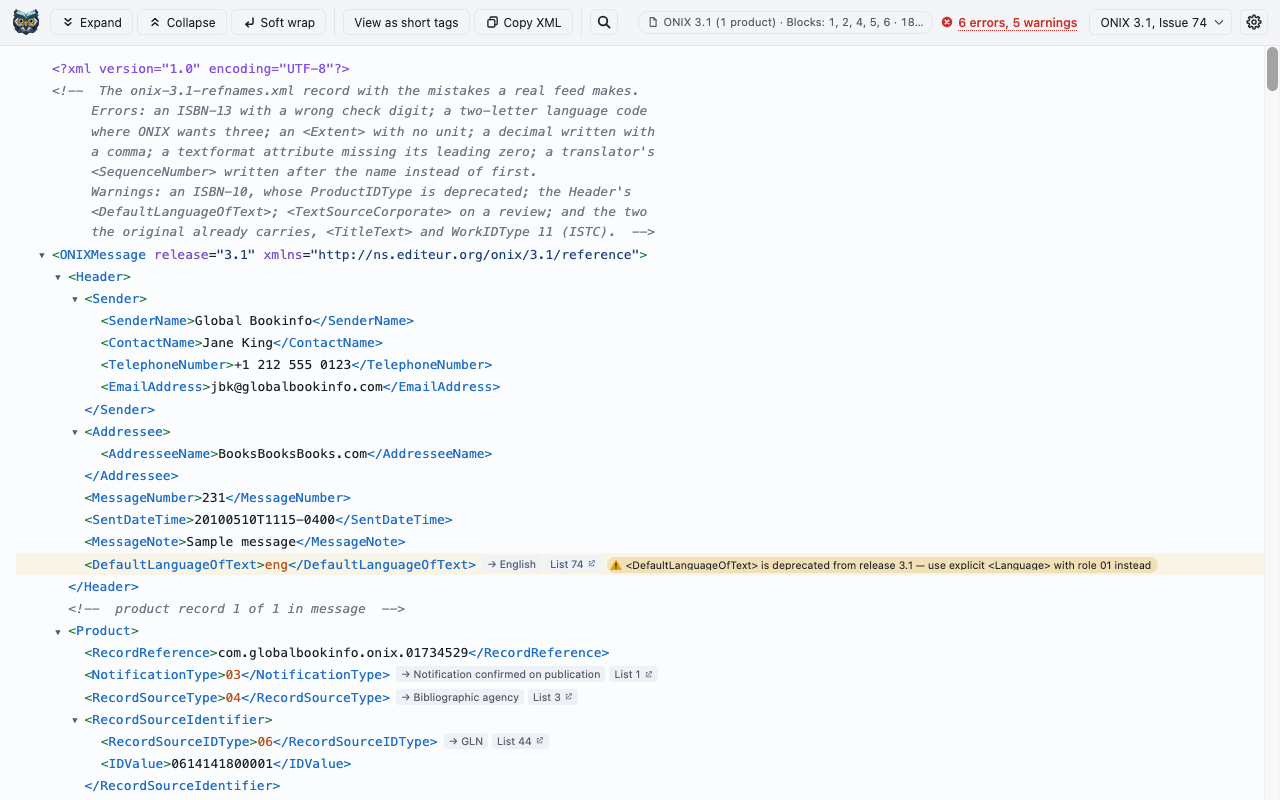
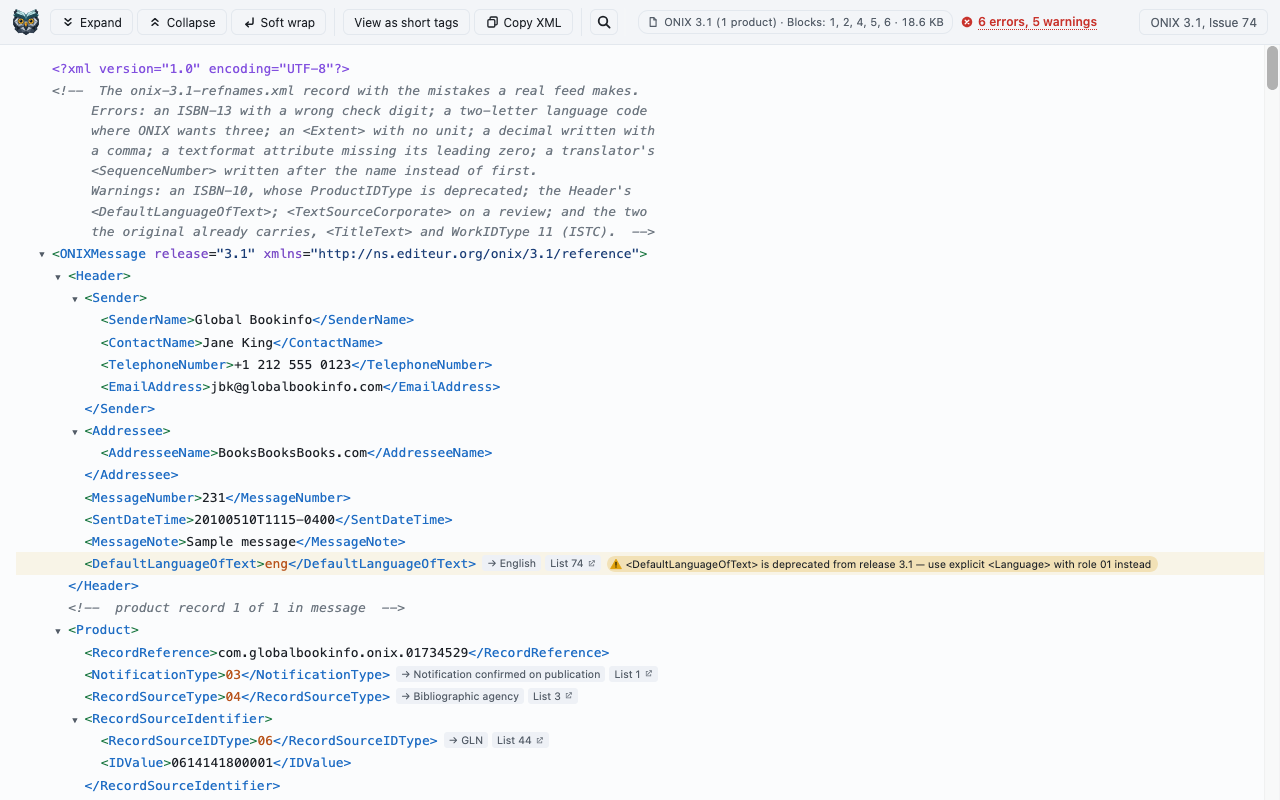
Hold back the custom rules and the release selector

diff --git a/tests/cases/38-held-back-features.test.js b/tests/cases/38-held-back-features.test.js
@@ -1,0 +1,54 @@
+// What ships while the custom-rules editor and the release selector are held
+// back: no cog, no rules read from the page, the release pill a fact rather
+// than a choice. The features' own tests (32, 33, 37) turn them on through
+// window.OnixViewerFeatures; these run with the shipped defaults.
+const fs = require("fs");
+const path = require("path");
+const { test, describe, assert, render, renderSource, validationLabel, RES, FIXTURES } = require("../harness");
+
+const HOUSE_RULES = fs.readFileSync(path.join(FIXTURES, "house-rules.sch"), "utf8");
+const VALID = fs.readFileSync(path.join(FIXTURES, "onix-3.1-valid.xml"), "utf8");
+
+describe("Held-back features", () => {
+  test("the shipped defaults hold both features off", () => {
+    const w = render("onix-3.1-valid.xml");
+    assert(w.OnixViewerFeatures.customRules === false && w.OnixViewerFeatures.releaseSelector === false,
+      `got ${JSON.stringify(w.OnixViewerFeatures)}`);
+  });
+
+  test("the toolbar has no cog, and a rules block on the page is ignored", () => {
+    const w = renderSource(VALID, "valid.xml", (win) => {
+      const holder = win.document.createElement("script");
+      holder.setAttribute("type", "application/xml");
+      holder.id = "__oxv-rules__";
+      holder.textContent = HOUSE_RULES;
+      win.document.body.appendChild(holder);
+    });
+    assert(!w.document.querySelector('#oxv-toolbar [data-action="rules"]'), "no cog in the toolbar");
+    assert(validationLabel(w).textContent === "Valid", `the house rules did not run; got "${validationLabel(w).textContent}"`);
+    assert(!w.document.getElementById("oxv-rules"), "and no editor was built");
+  });
+
+  test("the release pill states the document's release and offers no choice", () => {
+    for (const [fixture, release] of [["onix-3.0-reference.xml", "3.0"], ["onix-3.1-valid.xml", "3.1"], ["onix-2.1-doctype.xml", "2.1"]]) {
+      const w = render(fixture);
+      const select = w.document.getElementById("oxv-release");
+      assert(select.disabled, `${fixture}: not a control`);
+      assert(select.options.length === 1 && select.value === release, `${fixture}: one option, ${release}; got ${select.value}`);
+      assert(select.parentElement.classList.contains("px-static"), `${fixture}: styled as the plain pill`);
+      assert(select.options[0].textContent.startsWith(`ONIX ${release}`), `${fixture}: reads ONIX ${release}`);
+    }
+  });
+
+  test("the plain pill draws no chevron", () => {
+    const css = fs.readFileSync(path.join(RES, "viewer.css"), "utf8");
+    assert(/#oxv-release-group\.px-static::after\s*\{\s*display:\s*none;/.test(css), "the chevron rule is off for px-static");
+  });
+
+  test("turned on, the cog and the choice come back", () => {
+    const w = render("onix-3.1-valid.xml", (win) => { win.OnixViewerFeatures = { customRules: true, releaseSelector: true }; });
+    assert(w.document.querySelector('#oxv-toolbar [data-action="rules"]'), "the cog");
+    const select = w.document.getElementById("oxv-release");
+    assert(!select.disabled && select.options.length === 2, "the two bundled releases to choose from");
+  });
+});

diff --git a/Resources/viewer.js b/Resources/viewer.js
@@ -57,6 +57,19 @@
   // Findings inside a deferred Product, pinned when it renders.
   const pendingFindings = new Map();
 
+  // ---- held-back features ---------------------------------------------------
+
+  // Two features are built and tested but off in the shipped build until
+  // they are ready: the custom-rules editor behind the toolbar's cog, and the
+  // manual release selector. With both off the release to validate against
+  // is chosen from the document alone, the cog is not in the toolbar, and
+  // the manifest asks for no permission at all. Their tests turn them on
+  // through window.OnixViewerFeatures before the viewer loads; content.js
+  // carries its own copy of the customRules switch, since it runs in the
+  // other world.
+  const FEATURES = Object.assign({ customRules: false, releaseSelector: false }, window.OnixViewerFeatures);
+  window.OnixViewerFeatures = FEATURES;
+
   // ---- icons ----------------------------------------------------------------
 
   // Inline SVG rather than characters. ⚠ has an emoji presentation on several
@@ -816,7 +829,8 @@
       if (button && !button.querySelector("svg")) button.prepend(icon(name));
     }
     const rulesButton = document.querySelector('#oxv-toolbar [data-action="rules"]');
-    if (rulesButton && !rulesButton.firstChild) rulesButton.appendChild(icon("settings"));
+    if (rulesButton && !FEATURES.customRules) rulesButton.remove();
+    else if (rulesButton && !rulesButton.firstChild) rulesButton.appendChild(icon("settings"));
 
     document.getElementById("oxv-toolbar").addEventListener("click", (ev) => {
       const btn = ev.target.closest("button[data-action]");
@@ -1185,6 +1199,14 @@
       addReleaseOption(select, declared || "", releaseLabel(declared));
       select.disabled = true;
       select.title = "Acknowledgement messages have their own schema, which isn't bundled; code lists are still checked";
+      return;
+    }
+    if (!FEATURES.releaseSelector) {
+      // The plain pill: the release the document declares, and no choice.
+      addReleaseOption(select, declared || "", releaseLabel(declared));
+      select.disabled = true;
+      select.parentElement.classList.add("px-static");
+      select.title = declared ? `Validated against ONIX ${declared}` : "No release declared; only the code lists are checked";
       return;
     }
     const releases = bundledReleases();
@@ -1728,6 +1750,7 @@
   }
 
   function showRules() {
+    if (!FEATURES.customRules) return;
     const overlay = ensureRulesModal();
     rulesText().value = customRules;
     showRulesStatus(rulesInstalled);
@@ -2489,6 +2512,7 @@
   // when the reader has kept a rule set. Installed before the pass, so it
   // judges them too.
   function installCustomRules() {
+    if (!FEATURES.customRules) return;
     const holder = document.getElementById("__oxv-rules__");
     installRules(holder ? holder.textContent : "");
   }

diff --git a/site/privacy.html b/site/privacy.html
@@ -4,7 +4,7 @@
 <meta charset="UTF-8">
 <meta name="viewport" content="width=device-width, initial-scale=1.0">
 <title>ONIX Viewer privacy policy</title>
-<meta name="description" content="What ONIX Viewer does with your data: nothing. It collects none, stores only the rules you paste in, and sends nothing anywhere.">
+<meta name="description" content="What ONIX Viewer does with your data: nothing. It collects none, stores nothing, and sends nothing anywhere.">
 <link rel="icon" href="icon-128.png">
 <style>
   html { background: linear-gradient(180deg, #f7fbff, #e7f1fb) fixed; }
@@ -35,7 +35,7 @@
   <p>Nothing. ONIX Viewer has no accounts, no analytics, no telemetry, no crash reporting and no third-party code. It does not know who you are, which pages you visit, or what is in them, beyond rendering the one page you have open.</p>
 
   <h2>What it stores</h2>
-  <p>One thing, on your own computer: the custom validation rules you paste into the editor behind the toolbar's cog, so they follow you from page to page. They are kept in the browser's extension storage under a single key, and clearing the editor removes them. Nothing about the pages you view is stored.</p>
+  <p>Nothing. The extension stores nothing at all: it asks the browser for no permissions, and nothing about the pages you view, or anything else, is written anywhere.</p>
 
   <h2>What it sends</h2>
   <p>Nothing to anyone. The extension makes exactly one kind of network request: a re-fetch of the page you are already viewing, from the same address, to read its XML source. That request goes to the server the page came from and to no one else. The links to EDItEUR's code-list pages in the viewer are ordinary links that you choose to open; they carry no referrer.</p>

diff --git a/site/index.html b/site/index.html
@@ -150,7 +150,7 @@
   </ul>
 
   <h2>Privacy</h2>
-  <p>ONIX Viewer collects no data. It declares one permission, storage, which holds only the validation rules you paste in; no host permissions; no background process; and it makes exactly one network request: a same-origin re-fetch of the page you are already viewing, to read its XML source. Nothing is sent anywhere or shared with anyone. The <a href="privacy.html">privacy policy</a> says this in full, and the threat model and how to verify it are in <a href="https://github.com/rognlien/onix-viewer/blob/main/SECURITY.md">SECURITY.md</a>.</p>
+  <p>ONIX Viewer collects no data. It declares no permissions and no host permissions; no background process; and it makes exactly one network request: a same-origin re-fetch of the page you are already viewing, to read its XML source. Nothing is sent anywhere or shared with anyone. The <a href="privacy.html">privacy policy</a> says this in full, and the threat model and how to verify it are in <a href="https://github.com/rognlien/onix-viewer/blob/main/SECURITY.md">SECURITY.md</a>.</p>
 
   <footer>
     <p>ONIX for Books and its code lists are developed and maintained by <a href="https://www.editeur.org/8/ONIX/">EDItEUR</a>, which holds the copyright and makes them freely available. ONIX Viewer is an independent tool, not affiliated with or endorsed by EDItEUR.</p>

diff --git a/tests/cases/30-documentation.test.js b/tests/cases/30-documentation.test.js
@@ -37,13 +37,14 @@ describe("Documentation", () => {
   // and the front page links it. What it claims is what SECURITY.md claims:
   // one permission, one request. A page that drifted from that would be
   // the wrong kind of wrong to ship to a reviewer.
-  test("site/ carries a privacy policy, linked from the page, that names the one permission", () => {
+  test("site/ carries a privacy policy, linked from the page, that says nothing is stored", () => {
     const policy = fs.readFileSync(path.join(ROOT, "site", "privacy.html"), "utf8");
     const page = fs.readFileSync(path.join(ROOT, "site", "index.html"), "utf8");
     assert(page.includes('href="privacy.html"'), "the front page links the policy");
-    assert(/validation rules you paste/.test(policy), "the policy names the one thing stored");
+    assert(/stores nothing/.test(policy), "the policy says nothing is stored");
+    assert(!/rules you paste/.test(policy), "and no longer describes the held-back rules editor");
     assert(/exactly one kind of network request/.test(policy), "and the one request");
-    assert(!/no permissions/.test(page), "the front page no longer claims no permissions");
+    assert(/declares no permissions/.test(page), "the front page says there are no permissions");
   });
 
   test("site/'s screenshots and icon are the committed ones, byte for byte", () => {

diff --git a/Resources/content.js b/Resources/content.js
@@ -82,6 +82,10 @@
   // The one storage key, declared ahead of the entry point below, which runs
   // before any later const is initialised.
   const RULES_KEY = "rules";
+  // The custom-rules editor is held back (viewer.js FEATURES has the switch
+  // for the page's world); while it is, nothing is read from or written to
+  // storage, and the manifest asks for no permission.
+  const CUSTOM_RULES = false;
 
   Promise.all([loadSource(), loadRules()])
     .then(([xmlSource, rules]) => {
@@ -276,7 +280,7 @@
   // empty store, is simply no rules.
   function loadRules() {
     let loaded = Promise.resolve("");
-    const storage = browserAPI().storage;
+    const storage = CUSTOM_RULES ? browserAPI().storage : null;
     if (storage && storage.local) {
       loaded = Promise.resolve(storage.local.get({ [RULES_KEY]: "" }))
         .then((items) => (typeof items[RULES_KEY] === "string" ? items[RULES_KEY] : ""))
@@ -290,6 +294,7 @@
   // Once the write has landed, "oxv-rules-kept" goes back the same way, so
   // the editor can say so — and so a test knows when to reload.
   function keepRules() {
+    if (!CUSTOM_RULES) return;
     window.addEventListener("message", (event) => {
       if (event.source !== window || !event.data || event.data.type !== "oxv-rules") return;
       const storage = browserAPI().storage;

diff --git a/tests/browser/run.js b/tests/browser/run.js
@@ -180,9 +180,12 @@ async function main() {
   console.log(`\nIn Chrome ${await browser.version()}`);
   try {
     await takeover(browser, served);
-    await releaseSelector(browser, served);
+    const features = await heldBack(browser, served);
+    if (features.releaseSelector) await releaseSelector(browser, served);
+    else console.log("\nThe release selector is held back; its test is skipped");
     await schematronInChrome(browser, served);
-    await rulesRoundTrip(browser, served);
+    if (features.customRules) await rulesRoundTrip(browser, served);
+    else console.log("\nThe rules editor is held back; the storage round trip is skipped");
   } finally {
     await browser.close();
     served.server.close();
@@ -193,6 +196,15 @@ async function main() {
     for (const { name, error } of results.failures) console.log(`  - ${name}: ${error.message}`);
     process.exit(1);
   }
+}
+
+// The shipped build has both features off (viewer.js FEATURES); the tests
+// that drive them through the real UI run only when they are on.
+async function heldBack(browser, served) {
+  const page = await open(browser, served.url("onix-3.1-valid.xml"));
+  const features = await page.evaluate(() => window.OnixViewerFeatures);
+  await page.close();
+  return features;
 }
 
 async function takeover(browser, served) {

diff --git a/tests/cases/29-reviewability.test.js b/tests/cases/29-reviewability.test.js
@@ -82,12 +82,16 @@ describe("Reviewability", () => {
       `version_name must be "${manifest.version}-dev", got ${JSON.stringify(manifest.version_name)}`);
   });
 
-  test("the manifest declares one permission, storage, and nothing else", () => {
+  test("the manifest declares no permission at all", () => {
+    // `storage` came with the custom-rules editor and goes with it while the
+    // editor is held back (viewer.js FEATURES, content.js CUSTOM_RULES).
     // `storage` holds the reader's own rule set and nothing else; it is the
     // one permission, and it shows no install warning. Anything more is a
     // change to the security story that has to be argued in SECURITY.md.
-    assert(JSON.stringify(manifest.permissions) === JSON.stringify(["storage"]),
-      `permissions must be exactly ["storage"], got ${JSON.stringify(manifest.permissions)}`);
+    assert(JSON.stringify(manifest.permissions) === "[]",
+      `permissions must be exactly [], got ${JSON.stringify(manifest.permissions)}`);
+    assert(/const CUSTOM_RULES = false;/.test(sourceOf("content.js")),
+      "content.js's CUSTOM_RULES switch is off, so no storage call runs");
     assert(!manifest.host_permissions,
       `host_permissions must be absent, got ${JSON.stringify(manifest.host_permissions)}`);
     assert(!manifest.background,

diff --git a/tests/cases/32-schematron.test.js b/tests/cases/32-schematron.test.js
@@ -2,9 +2,18 @@
 const fs = require("fs");
 const path = require("path");
 const {
-  test, describe, assert, render, renderSource, rowsNamed, findingsFor,
+  test, describe, assert, rowsNamed, findingsFor,
   findingsCoded, described, validationLabel, shortTwin, FIXTURES, SAMPLES,
 } = require("../harness");
+const harness = require("../harness");
+
+// The feature is held back in the shipped build; these tests turn it on.
+const enabled = (before) => (w) => {
+  w.OnixViewerFeatures = { customRules: true };
+  if (before) before(w);
+};
+const render = (name, before) => harness.render(name, enabled(before));
+const renderSource = (xml, label, before, models) => harness.renderSource(xml, label, enabled(before), models);
 
 const HOUSE_RULES = fs.readFileSync(path.join(FIXTURES, "house-rules.sch"), "utf8");
 const VALID = fs.readFileSync(path.join(FIXTURES, "onix-3.1-valid.xml"), "utf8");

diff --git a/tests/cases/33-custom-rules-editor.test.js b/tests/cases/33-custom-rules-editor.test.js
@@ -4,8 +4,17 @@
 const fs = require("fs");
 const path = require("path");
 const {
-  test, describe, assert, render, renderSource, rowsNamed, validationLabel, FIXTURES,
+  test, describe, assert, rowsNamed, validationLabel, FIXTURES,
 } = require("../harness");
+const harness = require("../harness");
+
+// The feature is held back in the shipped build; these tests turn it on.
+const enabled = (before) => (w) => {
+  w.OnixViewerFeatures = { customRules: true };
+  if (before) before(w);
+};
+const render = (name, before) => harness.render(name, enabled(before));
+const renderSource = (xml, label, before, models) => harness.renderSource(xml, label, enabled(before), models);
 
 const HOUSE_RULES = fs.readFileSync(path.join(FIXTURES, "house-rules.sch"), "utf8");
 const VALID = fs.readFileSync(path.join(FIXTURES, "onix-3.1-valid.xml"), "utf8");

diff --git a/tests/cases/37-release-select.test.js b/tests/cases/37-release-select.test.js
@@ -1,8 +1,17 @@
 const fs = require("fs");
 const path = require("path");
 const {
-  test, describe, assert, render, renderSource, findings, codes, validationLabel, RES,
+  test, describe, assert, findings, codes, validationLabel, RES,
 } = require("../harness");
+const harness = require("../harness");
+
+// The feature is held back in the shipped build; these tests turn it on.
+const enabled = (before) => (w) => {
+  w.OnixViewerFeatures = { releaseSelector: true };
+  if (before) before(w);
+};
+const render = (name, before) => harness.render(name, enabled(before));
+const renderSource = (xml, label, before, models) => harness.renderSource(xml, label, enabled(before), models);
 
 // The toolbar's release selector: the verdict is against the release the
 // document declares unless the reader picks the other bundled one. 3.0 and

diff --git a/Resources/viewer.css b/Resources/viewer.css
@@ -418,6 +418,10 @@ body:not(.px-search-open) #oxv-search-status { display: none; }
   color: var(--fg);
 }
 #oxv-release-group:has(> :disabled)::after { color: var(--fg-muted); }
+/* With the selector held back (viewer.js FEATURES) the box is the plain
+   pill it used to be: no chevron, no room kept for one. */
+#oxv-release-group.px-static::after { display: none; }
+#oxv-release-group.px-static > #oxv-release { padding-right: 10px; }
 #oxv-release-group:has(> #oxv-release:empty) { display: none; }
 #oxv-release option { color: var(--fg); background: var(--bg); }
 
